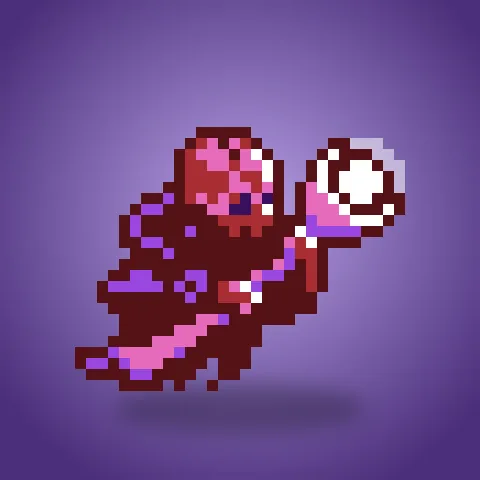
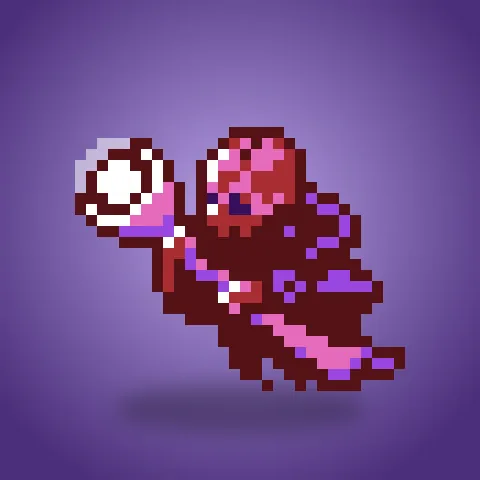
Rename White Ninja to Forest Abomination; new Memory art; mirror Necromancer
The card keeps its id (white_ninja) so ability code and art stay attached; the importer maps
the new name back to it.

Claude-Session: https://claude.ai/code/session_01WPSHXdnTWEUNYN1dkDcgY6

Changed region(s): [[0.1562, 0.25, 0.8438, 0.8438]]

diff --git a/src/engine/combat.ts b/src/engine/combat.ts
@@ -300,12 +300,12 @@ export class Combat {
           }
         }
       }
-      // Secret: when your last unit dies, spawn a White Ninja
+      // Secret: when your last unit dies, spawn a Forest Abomination (id white_ninja)
       for (const s of this.sides) {
         if (!s.units.some((u) => u.hp > 0) && s.secrets.length) {
           const golden = s.secrets.shift()!;
           this.spawn(s, 'white_ninja', golden, 0);
-          this.snap('trigger', { note: 'Secret: White Ninja' });
+          this.snap('trigger', { note: 'Secret: Forest Abomination' });
         }
       }
       this.snap('resolve');

diff --git a/tools/import_cards.py b/tools/import_cards.py
@@ -101,7 +101,7 @@ GOLDEN = {
     "hunter": "Start of Combat: Give 2 random enemy units Taunt and deal 1 damage to them.",
     "orange_ninja": "Venomous",
     "owl": "Battlecry: Discover a unit from a Rival's army twice.",
-    "secret": "Start of Combat: When your last unit dies, spawn a Golden White Ninja.",
+    "secret": "Start of Combat: When your last unit dies, spawn a Golden Forest Abomination.",
     "white_ninja": "Divine Shield. Venomous.",
     "songstress": "Avenge(3): Give a random card in your hand +10/+10.",
     "red_sea_snake": "Venomous. Rally: Give 2 other Cloister units Venomous.",
@@ -172,10 +172,14 @@ TOKENS = [
 ]
 
 
+# cards renamed after launch keep their original ID (their ability code and art are keyed by it)
+RENAMED = {"forest_abomination": "white_ninja"}
+
+
 def slug(s):
     s = s.lower().replace("&", "and")
     s = re.sub(r"[^a-z0-9]+", "_", s).strip("_")
-    return s
+    return RENAMED.get(s, s)
 
 
 def parse_keywords(text):
@@ -273,11 +277,13 @@ def update_art(changes):
         spec = {"src": key}
         if crop.startswith("pixel"):
             spec["px"] = True
-            box = re.findall(r"\d+", crop)
+            box = re.findall(r"\d+", crop.replace("flipped", ""))
             if len(box) == 4:
                 spec["box"] = [int(b) for b in box]
         else:
             spec["crop"] = [float(v) for v in re.findall(r"[\d.]+", crop)[:3]]
+        if "flip" in crop:
+            spec["flip"] = True
         if data["cards"].get(cid) != spec:
             data["cards"][cid] = spec
             changed.append(cid)

diff --git a/tools/build_art.py b/tools/build_art.py
@@ -7,6 +7,7 @@ Builds the illustrated card and hero art (public/art/v2/) from Keith's art archi
 Which image each card/hero uses, and how it is cropped, lives in tools/art_sources.json.
 Crops are [centre x, centre y, side] as fractions of the image (side = fraction of the shorter edge).
 Pixel sprites (px: true) use their first animation frame, scaled up sharp on a tribe-coloured backdrop.
+flip: true mirrors the result left-to-right.
 """
 import json, os, sys
 from PIL import Image, ImageDraw, ImageFilter
@@ -111,6 +112,8 @@ def main():
             path = os.path.join(R[key], file)
             tribe = cards[id_]['tribe'] if kind == 'cards' else 'hero'
             im = pixel_art(path, tribe, spec.get('box')) if spec.get('px') else cropped(path, spec['crop'], tribe)
+            if spec.get('flip'):
+                im = im.transpose(Image.FLIP_LEFT_RIGHT)
             im.save(os.path.join(ROOT, 'public', rel), 'WEBP', quality=82, method=6)
     json.dump(manifest, open(os.path.join(ROOT, 'src/data/artV2.json'), 'w'), indent=1)
     print('built', len(manifest))

diff --git a/tools/export_sheets.py b/tools/export_sheets.py
@@ -47,9 +47,10 @@ def where(spec):
     return f'{FOLDER[k]}/{f}'
 
 def crop_text(spec):
+    flip = ', flipped' if spec.get('flip') else ''
     if spec.get('px'):
-        return 'pixel' + (f" box {','.join(map(str, spec['box']))}" if spec.get('box') else '')
-    return ', '.join(f'{v:g}' for v in spec['crop'])
+        return 'pixel' + (f" box {','.join(map(str, spec['box']))}" if spec.get('box') else '') + flip
+    return ', '.join(f'{v:g}' for v in spec['crop']) + flip
 
 def style_sheet(ws, headers, widths, title=None):
     hdr_row = 1
